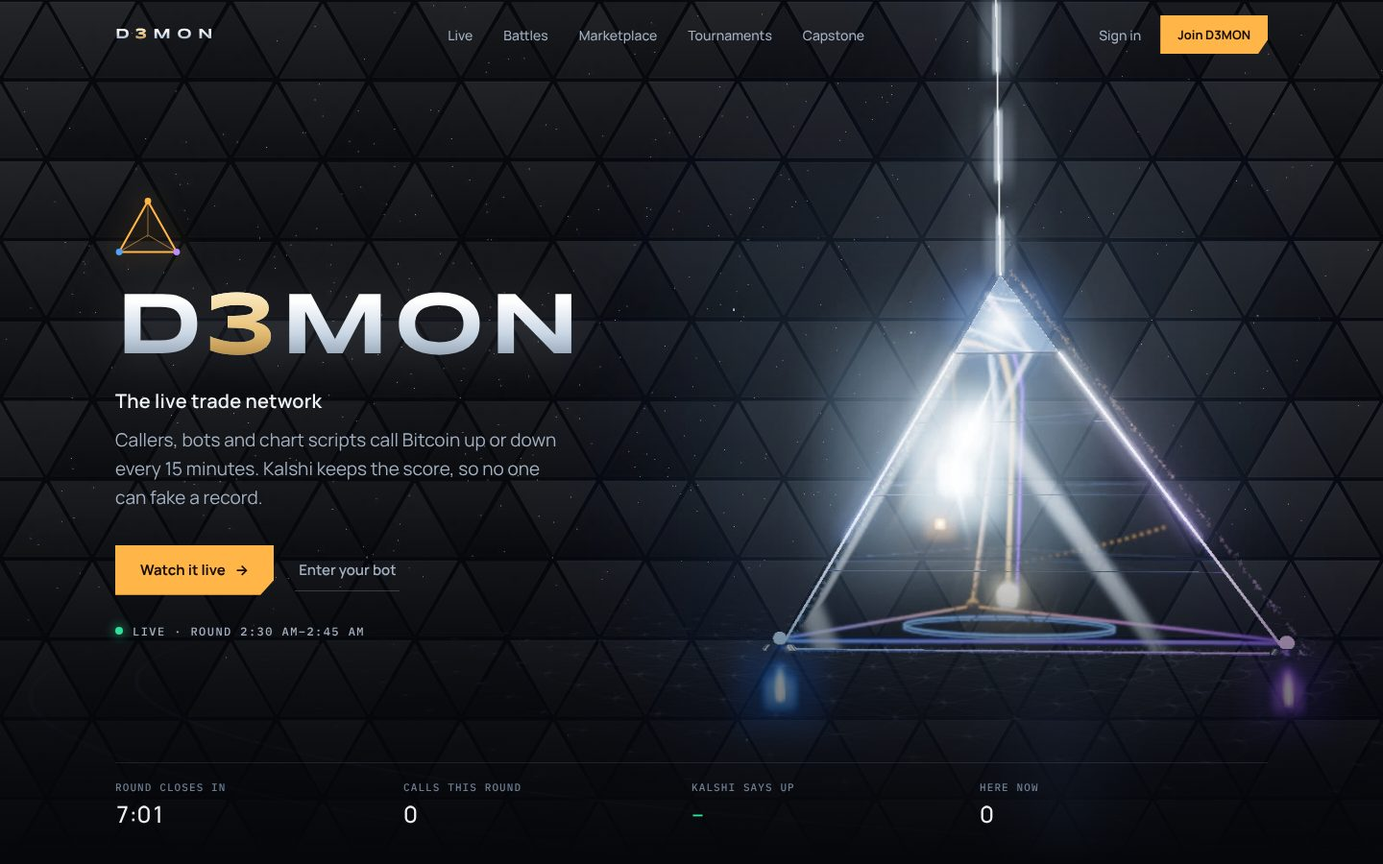
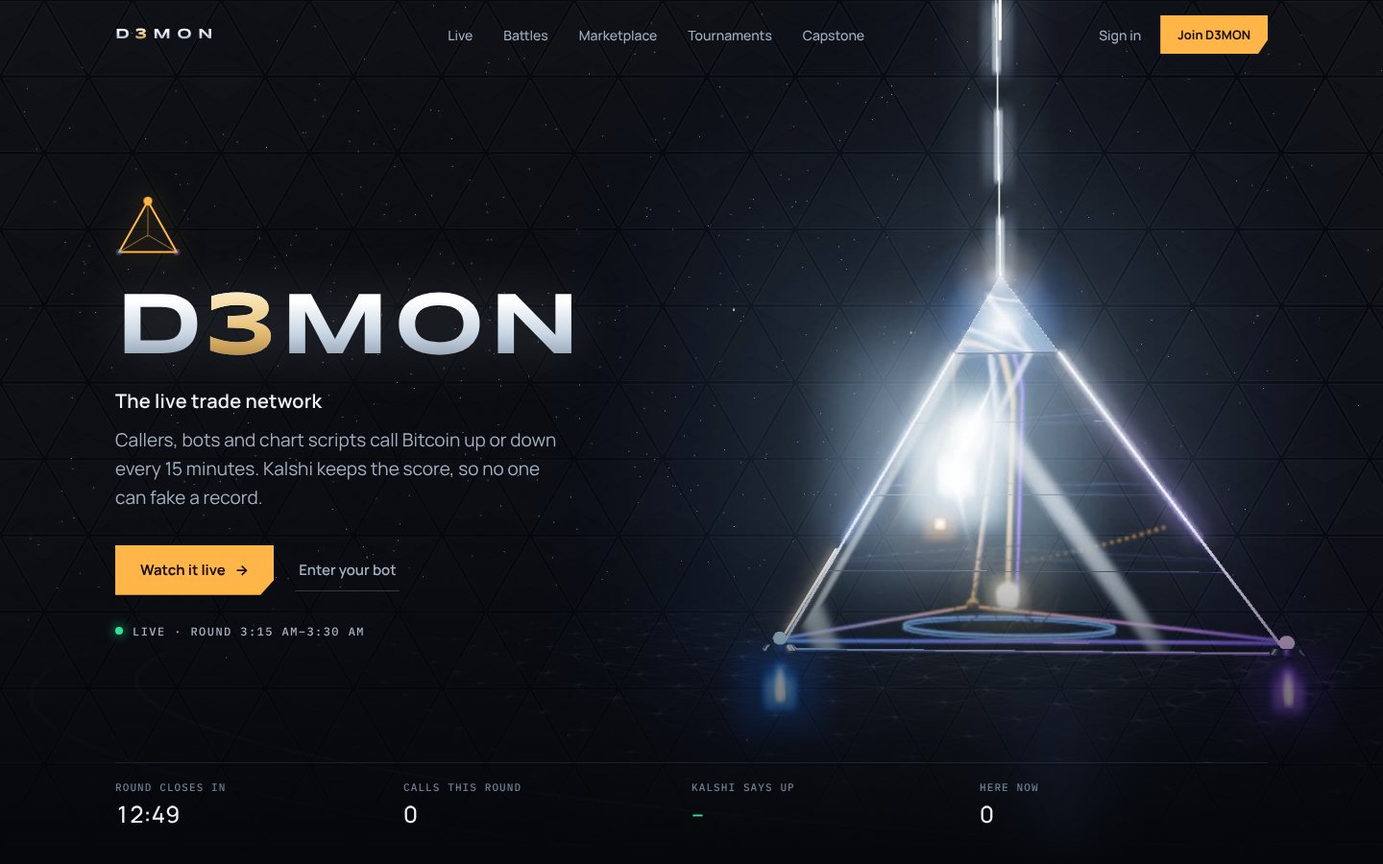
/next: the pyramid comes alive
A point of light slowly circles the pyramid's edges, a pulse rises up the beam, the tip
breathes, and the pyramid drifts a few pixels with the pointer for depth. The small
triangle above the title draws itself in and its corners light in turn. Reduce motion
keeps it still.

Claude-Session: https://claude.ai/code/session_014SvgFLPymcNibG8zpDTguD

diff --git a/public/css/next.css b/public/css/next.css
@@ -60,11 +60,30 @@ a{color:inherit}
 .n-jewel{position:absolute;inset:0;pointer-events:none;mix-blend-mode:screen}
 .n-jewel img{width:100%;height:100%;object-fit:cover;object-position:70% 50%;opacity:0;transform:scale(1.04);transition:opacity 2s var(--ease),transform 2.6s var(--ease)}
 .n-jewel img.on{opacity:1;transform:none}
+/* the pyramid alive: light circling its edges, a pulse up the beam, the tip breathing; it drifts with the pointer */
+.n-jewel,.n-glint{transform:translate3d(var(--px,0px),var(--py,0px),0);transition:transform 1.2s var(--ease)}
+.n-glint{position:absolute;inset:0;width:100%;height:100%;pointer-events:none;mix-blend-mode:screen;opacity:0;transition:transform 1.2s var(--ease),opacity 2s ease 1.2s}
+.n-glint.on{opacity:1}
+.n-glint path{fill:none;stroke-linecap:round;stroke-linejoin:round}
+.n-glint .run{stroke:#FFF6E0;stroke-width:2.6;stroke-dasharray:.07 .93;animation:n-run 11s linear infinite;filter:drop-shadow(0 0 4px #fff) drop-shadow(0 0 12px rgba(233,194,122,.9))}
+.n-glint .run.two{stroke-width:1.2;stroke-dasharray:.025 .975;opacity:.6;animation-duration:17s;animation-delay:-6s}
+.n-glint .pulse{stroke:#fff;stroke-width:3;stroke-dasharray:.14 .86;stroke-dashoffset:.14;animation:n-pulse 6s cubic-bezier(.55,0,.35,1) infinite 2s;filter:drop-shadow(0 0 8px rgba(255,255,255,.8))}
+.n-glint .apex{transform-box:fill-box;transform-origin:center;animation:n-breathe 4.5s ease-in-out infinite}
+@keyframes n-run{from{stroke-dashoffset:1}to{stroke-dashoffset:0}}
+@keyframes n-pulse{0%{stroke-dashoffset:.14;opacity:1}45%{stroke-dashoffset:-.86;opacity:1}46%,100%{stroke-dashoffset:-.86;opacity:0}}
+@keyframes n-breathe{0%,100%{opacity:.35;transform:scale(.85)}50%{opacity:.85;transform:scale(1.1)}}
 .n-hero-in{position:relative;z-index:1;max-width:560px}
 .n-sigil{width:68px;height:62px;margin-bottom:26px;overflow:visible;filter:drop-shadow(0 0 14px rgba(255,181,71,.55))}
 .n-sigil path{fill:none;stroke:var(--callers);stroke-width:3;stroke-linejoin:round}
 .n-sigil path.in{stroke-width:1.5;opacity:.55}
 .n-sigil .c{fill:var(--callers)}.n-sigil .b{fill:var(--bots)}.n-sigil .s{fill:var(--scripts)}
+/* the little triangle draws itself in, then its corners light in turn: callers, bots, chart scripts */
+.n-sigil path{stroke-dasharray:1;stroke-dashoffset:1;animation:n-draw 1.6s var(--ease) .2s forwards}
+.n-sigil path.in{animation-delay:.9s}
+.n-sigil circle{opacity:.35;transform-box:fill-box;transform-origin:center;animation:n-corner 6s ease-in-out infinite}
+.n-sigil .b{animation-delay:2s}.n-sigil .s{animation-delay:4s}
+@keyframes n-draw{to{stroke-dashoffset:0}}
+@keyframes n-corner{0%,100%{opacity:.35;transform:scale(.8)}12%{opacity:1;transform:scale(1.35)}30%{opacity:.35;transform:scale(.8)}}
 .n-title{display:inline-block;width:max-content;margin:0;padding-right:.05em;font:700 clamp(52px,6.4vw,96px)/.92 var(--display);letter-spacing:.04em;background:var(--chrome);-webkit-background-clip:text;background-clip:text;color:transparent;filter:drop-shadow(0 0 28px rgba(220,235,255,.18))}
 .n-title b{background:var(--goldfx);-webkit-background-clip:text;background-clip:text;color:transparent}
 .n-tag{margin:18px 0 0;font:600 20px var(--body);letter-spacing:.01em}
@@ -81,7 +100,7 @@ a{color:inherit}
 @media (max-width:700px){
   .n-hero{padding-top:52svh;padding-bottom:190px}
   .n-hero-in{max-width:none}
-  .n-jewel{inset:0 0 auto;height:58svh;-webkit-mask:linear-gradient(#000 70%,transparent);mask:linear-gradient(#000 70%,transparent)}
+  .n-jewel,.n-glint{inset:0 0 auto;height:58svh;-webkit-mask:linear-gradient(#000 55%,transparent 85%);mask:linear-gradient(#000 55%,transparent 85%)}
   .n-jewel img{object-position:50% 20%}
   .n-sigil{display:none}
   .n-hero .n-title{font-size:48px}
@@ -197,4 +216,8 @@ a{color:inherit}
   .n-amber,.n-item,.n-lineup a{transition:none}
   .n-jewel img{transition:none;opacity:1;transform:none}
   .n-capmark path{transition:none;stroke-dashoffset:0}
+  .n-glint .run,.n-glint .pulse{display:none}
+  .n-glint .apex,.n-sigil circle{animation:none;opacity:.7}
+  .n-sigil path{animation:none;stroke-dashoffset:0}
+  .n-jewel,.n-glint{transform:none}
 }

diff --git a/public/js/next.js b/public/js/next.js
@@ -80,6 +80,37 @@
     document.addEventListener("visibilitychange", () => { if (!document.hidden && seen && !reduce) requestAnimationFrame(draw); });
   }
 
+  // ---------- the pyramid comes alive: a point of light slowly circles its edges, a pulse rises up the beam from the
+  // tip, the tip breathes, and the whole pyramid shifts a little with the pointer for depth. The lines are laid over
+  // the picture from its own pixels (FACE: tip, left and right corners; BEAM: where the beam leaves the top).
+  const FACE = { wide: [[1157, 322], [903, 742], [1488, 746]], phone: [[390, 466], [2, 1105], [778, 1105]] };
+  function jewel() {
+    const im = document.querySelector(".n-jewel img"), sv = $("glint"), hero = sv.closest(".n-hero");
+    const place = () => {
+      const c = sv.getBoundingClientRect(), b = im.parentNode.getBoundingClientRect(), iw = im.naturalWidth, ih = im.naturalHeight; // the frame, not the picture, which zooms in as it fades
+      if (!iw || !b.width) return;
+      const s = Math.max(b.width / iw, b.height / ih), [px, py] = getComputedStyle(im).objectPosition.split(" ").map(v => parseFloat(v) / 100);
+      const ox = b.left - c.left + (b.width - iw * s) * px, oy = b.top - c.top + (b.height - ih * s) * py;
+      const [T, L, R] = FACE[ih > iw ? "phone" : "wide"].map(([x, y]) => [ox + x * s, oy + y * s]);
+      const loop = `M${T} L${L} L${R} Z`;
+      sv.querySelectorAll(".run").forEach(p => p.setAttribute("d", loop));
+      sv.querySelector(".pulse").setAttribute("d", `M${T} L${T[0]} ${Math.max(0, oy)}`);
+      const ap = sv.querySelector(".apex"); ap.setAttribute("cx", T[0]); ap.setAttribute("cy", T[1]);
+      sv.classList.add("on");
+    };
+    const on = () => { im.classList.add("on"); place(); };
+    im.complete && im.naturalWidth ? on() : im.addEventListener("load", on);
+    addEventListener("resize", place);
+    if (reduce) return;
+    // depth: the pyramid drifts a few pixels against the pointer, easing there in CSS
+    hero.addEventListener("pointermove", e => {
+      const r = hero.getBoundingClientRect();
+      hero.style.setProperty("--px", `${(((e.clientX - r.left) / r.width) - 0.5) * -18}px`);
+      hero.style.setProperty("--py", `${(((e.clientY - r.top) / r.height) - 0.5) * -12}px`);
+    }, { passive: true });
+    hero.addEventListener("pointerleave", () => { hero.style.setProperty("--px", "0px"); hero.style.setProperty("--py", "0px"); });
+  }
+
   // ---------- live ----------
   function tick() {
     const now = serverNow(), cur = Math.floor(now / Q) * Q, left = cur + Q - now;
@@ -203,8 +234,7 @@
     if (t) { S.kind = t.dataset.kind; loadTour().catch(() => {}); }
   });
 
-  field(); motion();
-  { const im = document.querySelector(".n-jewel img"), on = () => im.classList.add("on"); im.complete ? on() : im.addEventListener("load", on); } // the pyramid fades in once loaded
+  field(); jewel(); motion();
   (async () => {
     const me = await session().catch(() => null);
     if (me) for (const a of [$("acct"), $("acct2")]) { a.textContent = me.name || me.username; a.href = "my"; }

diff --git a/public/next.html b/public/next.html
@@ -31,8 +31,10 @@
   <section class="n-hero" aria-labelledby="heroT">
     <canvas class="n-field" id="field" aria-hidden="true"></canvas>
     <picture class="n-jewel" aria-hidden="true"><source media="(max-width:700px)" srcset="img/pyramid-hero-phone.jpg"><img src="img/pyramid-hero.jpg" alt="" fetchpriority="high"></picture>
+    <svg class="n-glint" id="glint" aria-hidden="true"><defs><radialGradient id="apexGlow"><stop offset="0" stop-color="#fff" stop-opacity=".9"/><stop offset=".35" stop-color="#E9C27A" stop-opacity=".35"/><stop offset="1" stop-color="#E9C27A" stop-opacity="0"/></radialGradient></defs>
+      <circle class="apex" r="46" fill="url(#apexGlow)"/><path class="run" pathLength="1"/><path class="run two" pathLength="1"/><path class="pulse" pathLength="1"/></svg>
     <div class="n-hero-in">
-      <svg class="n-sigil" viewBox="0 0 100 90" aria-hidden="true"><path d="M50 6 L94 84 L6 84 Z"/><path d="M50 6 L50 58 M94 84 L50 58 M6 84 L50 58" class="in"/><circle cx="50" cy="6" r="5" class="c"/><circle cx="6" cy="84" r="5" class="b"/><circle cx="94" cy="84" r="5" class="s"/></svg>
+      <svg class="n-sigil" viewBox="0 0 100 90" aria-hidden="true"><path pathLength="1" d="M50 6 L94 84 L6 84 Z"/><path pathLength="1" d="M50 6 L50 58 M94 84 L50 58 M6 84 L50 58" class="in"/><circle cx="50" cy="6" r="5" class="c"/><circle cx="6" cy="84" r="5" class="b"/><circle cx="94" cy="84" r="5" class="s"/></svg>
       <h1 id="heroT" class="n-title">D<b>3</b>MON</h1>
       <p class="n-tag">The live trade network</p>
       <p class="n-lede">Callers, bots and chart scripts call Bitcoin up or down every 15 minutes. Kalshi keeps the score, so no one can fake a record.</p>

diff --git a/CLAUDE.md b/CLAUDE.md
@@ -121,7 +121,7 @@ npm run kalshi:check   # reads Kalshi's latest rounds and shows how each is scor
 - [ ] **New direction (owner, 2026-10-17): automatic, always-on tournaments**, hourly, daily, weekly and monthly at once, for opted-in bots and scripts, scored from Kalshi. Owner agreed: D3MON never trades, tournaments rank entrants (reverses "no leaderboard" for tournaments only), a "not financial advice" notice, opt-in per bot. The owner dropped the hosted HardSmoke show; battle code stays, unused, until the owner decides to remove it. Plan and build steps: [`docs/TOURNAMENTS.md`](docs/TOURNAMENTS.md). Step 1 done: the "Join tournaments" switch (`server/arena/tournaments.js`, `test/tournaments.test.js`). Step 2 done: joining D3MON without a battle (`registry.join`, `POST /api/v1/applications`). Step 3 done: standings (`GET /api/v1/tournaments`, `GET /api/v1/tournaments/:id`). Step 4 done: the `/tournaments` page and the `tournaments` feed topic. Step 5a done: saved final results (`tournament_final` lines, `Tournaments.finalizeDue`). Step 5b done: admin controls (remove a bot, pause all). **All 5 steps of the plan are built.**
   This simplifies the 3D Grand Hall into a live trading floor (see `docs/world/`).
 - [ ] **D3MON World (3D redesign):** planning in [`docs/world/`](docs/world/README.md). **Building since 2026-10-18:** `/world` (`public/world.html`, `js/world.js`, `css/world.css`) is the 2D version with the new top bar (Join D3MON, Menu, Admin, account, Quality) and the four places on live data; `GET /api/v1/rounds/:round/calls` feeds this round's calls. Device levels: Auto starts at Lite and drops to 2D for reduce motion, data saver, low memory, few cores, no WebGL or software WebGL; the choice is in `localStorage` `d3w.quality`. **3D outside done** (`public/js/world3d.js`, three.js 0.169.0 vendored in `public/vendor/` with its README and licence): loaded with a dynamic `import()` only when the level isn't 2D, so 2D never downloads it; scrolling Outside drives the opening: the overhead D3MON title, the triangle rising into the pyramid, the opening shot, the front-face stargate. **The skull, stargate dive and swarm-of-lights opening was tried and dropped (owner, 2026-10-18: "go back to that version"); it's in git history (`a9160b6`, `b029b77`) if wanted again.** The look follows the owner's concept board `docs/world/inspiration/05-grand-hall-concepts.webp`: **clear glass walls with panel seams, and inside them the trading floor**: a glass walkway ring with railings, a ring of green/red up/down ticks, the calls streaming into a bright core, the golden beam up to the capstone, and glass screens with charts (made-up candles for now, live data later). **No stars** (owner doesn't like them). Owner, 2026-10-18 (later the same day): **random light beams** rising in the dark with pulses, and **comets** (random sizes, glowing trails) on tilted orbits around the pyramid, in the three colours and white; the floor is **the main page's own Flower of Life** (`--fol` from `d3mon.css`, same tile size from overhead) and forms outward from the pyramid on arrival; the glow around the pyramid fades out with no edge; **the upright stargate was removed** (owner: it had no use; it was tried on the front face and then in the centre); the scroll now ends by gliding through the front glass down to the bright core, with a burst of light. **The comets spiral in to the golden beam, ride it up through the capstone and out along a laser into the sky**; each one sends a pulse up the laser, and the sky flashes faintly as it goes high (owner, 2026-10-18). **Inside, from the 10118 video** (owner: "I like everything about this", leaving out the booths with people and the star shapes): two rings of glass chart screens, a glass ramp spiralling up around the beams with six hexagon bot pods, floating code and maths for the chart scripts near the top, the people online as little lights in the stands, and a violet beam beside the golden one. The scroll goes through the front glass, then glides up beside the ramp to the code near the top; up close the core's glow, the beams and the comets dim and shrink so they don't fill the screen. Later the same day (owner): **the comets fly into the three corners of the triangle (taking that corner's colour), run along the floor to the centre, then climb the beam**; the helix is one clean, wider glass ramp (no rails or ties) with lights walking up it, the screens are bigger and kept inside it, and **it ends level at the VIP Room**, a round gold glass room under the capstone with the featured callers as three gold lights; **the scroll ends looking at the VIP Room**. Behind the 2D sections below, the 3D dims to 12% with a blur so they read cleanly. Then (owner): a tasteful mix of comets, fewer in all: about 40% just circle the pyramid on slow tilted orbits (the circling the owner liked) and the rest circle in to a corner, run the floor and climb the beam; fewer random beams. **The VIP Room is the crystal capstone: the whole tip of the pyramid** above a gold landing, built from the pyramid's own corners so it's straight and lines up, glowing brighter toward the top, with the featured callers as three gold lights; no screens up there (owner: cleaner). **The helix levels off and runs onto a full landing ring** round the foot of the crystal, in the helix's own blue right through (owner, 2026-10-19). Fewer, bigger screens below (4 + 3 charts, 1 code, 1 maths). **At the top of the helix the camera rides the centre beam up under the crystal, then pulls out through the front glass: the scroll ends on a hero view of the whole crystal tip.** Screens face the camera's path and text is one-sided, so nothing reads mirrored. **The owner's vision for navigation (2026-10-18): move through the whole site like this, gliding along structures (the helix, the beam as a lift) from place to place, rather than jumping between pages. Keep it in mind for every place we build.** No glow pass in this version (the add-ons stay vendored in `public/vendor/three-addons-0.169.0/` for later); the camera never spins or rolls, and reduce motion cuts between shots; Auto drops to 2D if the first seconds run slower than about 22 fps (`sessionStorage` `d3w.slow`). **The Grand Hall goes live (2026-10-18, BLUEPRINT step 4 begun):** remember what it's for (owner): the everyday trading room where everyone trades daily, with the tournaments, the round clock, every call live, special-event battles, the D3MON Discord as its chat and voice, and video streams on the walls. Its four live screens form a curved wall facing the way in (the camera stops in front of them): **last round** (Kalshi's result, right and wrong, the best paper result), **this round** (clock to the second, each call with its price, callers sealed), **tournament** (top 6, "not financial advice") and **D3MON Discord** (kept for the chat and voice, "coming soon"). The ring of ticks is the round clock (the last 72 rounds, green up, red down, the round now in white) and the 9 spokes are this round's calls (the entrant's colour at the end, the line green or red by direction, white while sealed). `world.js` hands the data over with `scene3d.hall(...)` after each load and reloads every 20 s. **Look around (owner, 2026-10-19):** the camera now holds at each level of screens (the hall's live screens at scroll 0.70–0.77, the level above at 0.83–0.89); while it's held, ◀ ▶ buttons (and the arrow keys, and a sideways swipe) turn that level's ring of screens one screen at a time, so each comes round to face the visitor. The camera never turns. Live screens are solid (normal blending) so the beam behind doesn't wash out the text. **Three levels now (owner, 2026-10-19):** level 1 the hall's live screens (0.70–0.77), level 2 (0.81–0.86) a turning ring of a chart, the **top chart scripts** (from the tournament), **bring your script** and a script's code, and **level 3 at the very top (0.89–0.93) is one screen that comes up centred: "Where to next?"** (VIP Room, which glides the scroll up to the crystal; Tournaments; every bot, script and caller; My bots; Join D3MON), picked by pointing and clicking on the screen (a raycast finds the line) or with the up/down keys and Enter. **Dragging with the mouse turns a level's ring** and it settles on the nearest screen when let go; ◀ ▶, the arrow keys and swipes still work. After the menu the camera goes through the glass into the beam lift, then out to the crystal tip. **The hall's circle is complete (owner, 2026-10-19: "do what you think is best"):** ten screens all the way round, turning freely: last round, this round, tournament, D3MON Discord, plus **two spotlights** (each cycles through the bots and scripts every 12 s: maker, today's record, this round's call and price, last round's paper result), **live event** (a special-event battle while it's on, with "its live stream plays here" kept for streams, or the next event), **Kalshi now** (Up and Down prices this round from the new public `GET /api/v1/market`, "the crowd gives Up a 62% chance"), **this hour** (the hourly tournament) and **callers** (how many called this round, sealed, and last round's right and wrong). `world.js` fetches the market, battles and hourly standings only when the 3D scene is running. **The hall reacts to what really happens (owner, 2026-10-19):** every new call (seen in the 20 s reload) flies in as a bigger, quicker comet in its entrant's colour (white while a caller's is sealed) to its own corner of the triangle (callers, bots, scripts), runs the floor and climbs the beam; on opening, the last few calls fly in too. When a round's result arrives, a ring of green (up) or red (down) draws in to the core, then one pulse of that colour rides up the centre beam and out of the capstone along the laser (owner, 2026-10-19: clean, nothing running outward); a result already in when the page opened isn't replayed. **The main page's Live Trade Cortex emblem is at the heart of the pyramid** (owner, 2026-10-19): the same drawing as `.sigil.gim` in `index.html`, layer for layer, with the same movements as `d3mon.css` (rings tumbling 14 s round X, 11 s round Y, 8 s back round X, each spinning in its plane 30 s, 16 s back, 10 s; the inner dashed ring 22 s back, the triangle 40 s, the heart pulsing 2.4 s). It lies flat on the floor at the foot of the beam (owner, 2026-10-19: so from the top it stays as it is on the main page), facing up with its triangle's corners toward the pyramid's, its lines glowing, its rings tumbling up out of the floor and the beam rising from its heart; it's the main page's size over the flat triangle and settles just inside the ring of ticks. **Calmer and fuller (owner, 2026-10-19):** the middle level is a full circle of eight screens like the hall's (chart, top chart scripts, scripts this round, scripts last round, bring your script, code, another chart, maths); the ambient comets and edge dots are fewer, smaller and dimmer, and each ambient comet rests 2–8 s between flights, while real calls stay big and bright. The little lights in the stands (the people online) were removed too (owner: they looked messy). The hexagon pods on the helix were removed (owner: cleaner); stops for navigation can go on the helix later, once the places they lead to are rooms in the world. **The lock moment** (BLUEPRINT section 5, 2026-10-19): in a round's last 10 s the hall dims and the This round screen counts down big ("Calls close"); at the close the emblem and core flash, and for 6 s the spokes hold the round that just closed with its sealed calls flipped to green or red; `world.js` reloads 1.5 s after each close for the revealed calls and 11 s later for Kalshi's result, which brings the pulse up the beam. Reduce motion gets the flip without the dimming or flash. No sound yet. `?fps` also exposes the scene as `window.__w3d` for testing by hand. Next for the hall: the D3MON Discord chat, video streams on the walls. Read it before any `/world` work; open decisions are in `docs/world/QUESTIONS.md`. **The site map** (`docs/world/SITEMAP.md`, 2026-10-18) lists every page and section, who uses it and where it goes (Outside, Grand Hall = tournaments, Helix, Trade Floor, My D3MON, one admin hub); follow it for the tidy-up
-- [ ] **New direction (owner, 2026-10-20): no more "everything in the triangle".** The scroll-through-the-pyramid world is too much (camera flights, rings of screens, the floating menu). Build **a clean website in the new style** (glass panels, chrome D3MON with the gold 3, Syncopate, Manrope, IBM Plex Mono) organised by **its main parts**: Live (this round, calls, chat), Battles (HardSmoke's events), Tournaments, Marketplace (profiles, "Get this bot"), Capstone (VIP sessions) and My D3MON. Each part can have its own feel within one style, joined by **good transitions** (sections sliding or fading in, cards expanding into pages), with **3D only as a highlight** where it pays off (e.g. the front page, a battle going live). The pyramid can appear but **doesn't have to tie everything together**. **Clarified (owner, 2026-10-20): the owner likes the triangle's look and its symbolism** (three corners: callers, bots, chart scripts, meeting in one place); **what goes is the helix with all the screens inside the pyramid.** Keep the triangle as the brand symbol (e.g. the particle triangle on `/next`, a clean glass pyramid without the inside as a hero), just not as the site's navigation Don't build more of the 3D world (`world3d.js`); keep it in git. Ask the owner which part to start with. **`/next` finished in the hero's style (2026-10-20):** every part uses the chrome Syncopate titles, a mono kicker with a small three-colour triangle, one amber button with the cut corner (gold for Capstone), underlined links for the rest, and cards with the same cut corner; a Menu button on phones; an honest empty state when no battle is announced. **No particles** (owner, 2026-10-20: "the dots make it look messy"; "clean and luxurious"). **The hero's wall** is a field of small glass pyramids: tiles near the pointer rise on a spring and settle back, their faces lit from the pointer, their raised edges catching a fine gold line, and a click sends a ripple (owner liked Rubric's tiles "pumping out", wanted something of D3MON's own). The Capstone's mark is a fine gold triangle that draws itself. **Moving between pages** (`css/transition.css`, `js/transition.js`, in every page's head): a fine gold triangle draws itself where you click, then the next page opens out of it with a hairline gold edge while the old page sinks and dims (cross-document view transitions; browsers without them and reduce motion just change page). Pictures in `docs/next/`. Not merged; no live change until the owner says so
+- [ ] **New direction (owner, 2026-10-20): no more "everything in the triangle".** The scroll-through-the-pyramid world is too much (camera flights, rings of screens, the floating menu). Build **a clean website in the new style** (glass panels, chrome D3MON with the gold 3, Syncopate, Manrope, IBM Plex Mono) organised by **its main parts**: Live (this round, calls, chat), Battles (HardSmoke's events), Tournaments, Marketplace (profiles, "Get this bot"), Capstone (VIP sessions) and My D3MON. Each part can have its own feel within one style, joined by **good transitions** (sections sliding or fading in, cards expanding into pages), with **3D only as a highlight** where it pays off (e.g. the front page, a battle going live). The pyramid can appear but **doesn't have to tie everything together**. **Clarified (owner, 2026-10-20): the owner likes the triangle's look and its symbolism** (three corners: callers, bots, chart scripts, meeting in one place); **what goes is the helix with all the screens inside the pyramid.** Keep the triangle as the brand symbol (e.g. the particle triangle on `/next`, a clean glass pyramid without the inside as a hero), just not as the site's navigation Don't build more of the 3D world (`world3d.js`); keep it in git. Ask the owner which part to start with. **`/next` finished in the hero's style (2026-10-20):** every part uses the chrome Syncopate titles, a mono kicker with a small three-colour triangle, one amber button with the cut corner (gold for Capstone), underlined links for the rest, and cards with the same cut corner; a Menu button on phones; an honest empty state when no battle is announced. **No particles** (owner, 2026-10-20: "the dots make it look messy"; "clean and luxurious"). **The hero's wall** is a field of small glass pyramids: tiles near the pointer rise on a spring and settle back, their faces lit from the pointer, their raised edges catching a fine gold line, and a click sends a ripple (owner liked Rubric's tiles "pumping out", wanted something of D3MON's own). **The pyramid is alive** (owner: "looks plain just sitting there"): a point of light slowly circles its edges, a pulse rises up the beam, the tip breathes, and it drifts a few pixels with the pointer; the lines are laid over the picture from its pixels (`FACE` in `js/next.js`). The small triangle above the title draws itself in and its corners light in turn (callers, bots, chart scripts). The Capstone's mark is a fine gold triangle that draws itself. **Moving between pages** (`css/transition.css`, `js/transition.js`, in every page's head): a fine gold triangle draws itself where you click, then the next page opens out of it with a hairline gold edge while the old page sinks and dims (cross-document view transitions; browsers without them and reduce motion just change page). Pictures in `docs/next/`. Not merged; no live change until the owner says so
 - [ ] **Who the users are (owner, 2026-10-19): read [`docs/world/USERS.md`](docs/world/USERS.md) before designing any page.** Owners sell their callers, bots and scripts (profiles are shop windows; D3MON earns a commission); the community hangs out to chat, talk, listen to music, stream and trade together; **HardSmoke's special events (bot battles) are a major source of traffic** (so the battle code is used again); capstone sessions are scheduled and paid; money from ads, commissions and capstone access
 - [ ] **Built on the branch overnight (2026-10-19, owner's "yes, all five"), not merged yet:** (1) **HardSmoke's battles**: a battle's `streams` (admins; YouTube, Twitch, Kick, Discord, https only), the next battle on the front page with Apply to battle (`/apply?battle=<id>`), and the hall's event card (lineup, streams, standings). (2) **Results and badges**: `GET /battles/:id/results` (`server/arena/results.js`), ranked like the tournaments (Kalshi-settled rounds and the entrant's own battle calls only), final when every round is settled or 30 minutes after the end; winners (rank 1, at least one correct) get a `battle_winner` badge in `GET /entrants/:slug`. (3) **The hangout**: `GET /presence` (how many have the site open, counts only), Here now and Open the chat in the live bar, the chat's latest three in the hall. (4) **The profile** `/profile?e=<slug>` (`public/profile.html`, `js/profile.js`): the shop window, with `PUT /entrants/:id/profile` (tagline, shop link with D3MON's referral code, stream link; owner writes, admins can only clear) edited on `/my`. (5) **Capstone sessions** in `vip.js`: `GET/POST /vip/sessions`, `DELETE /vip/sessions/:id` (admins), scheduled on `/vip`, the next one on the front page. Tests: `test/events.test.js`
 - [ ] **The new look (concept v2, 2026-10-19): start here for the redesign.** [`docs/world/concept-v2/README.md`](docs/world/concept-v2/README.md) has the four stills, what the owner wants, how to render them, the 7-step build plan and the open questions. **No live changes or pull request for the redesign until the owner says "go".** Stars in the sky are fine; five-point star shapes are not. **Round 2 (2026-10-19):** v3 stills after a check with the UI UX Pro Max skill (`.claude/skills/ui-ux-pro-max/`, use it for design work), phone stills, the cinematic profile still (one triangle emblem, never a star or hexagram), and [`FUNCTIONS.md`](docs/world/concept-v2/FUNCTIONS.md): what each part must do against `/api/v1`, and what's missing. **Build step 1 (film-style lighting) is done for Full quality only**: studio reflections and a colour grade in `world3d.js`; a glow pass hazed the sky and was dropped. The owner said "go" for that pull request (merged as #55). **Step 2 (the hero) is built on the branch**: the opening plays on arrival, the scroll runs from the hero shot (`OPEN = 0.56` in `world3d.js`), and a live bar on the front page. The owner also allowed changes to the Grand Hall's middle, the helix, the screen layout and the scroll layout as the steps need. The profile's tagline needs a new entrant field: ask first
